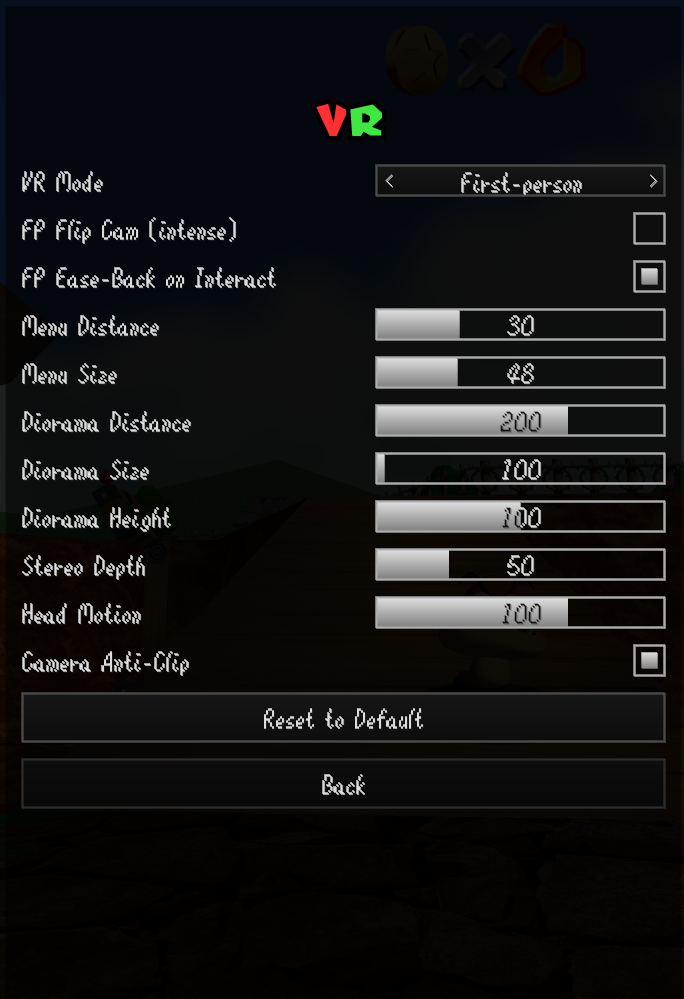
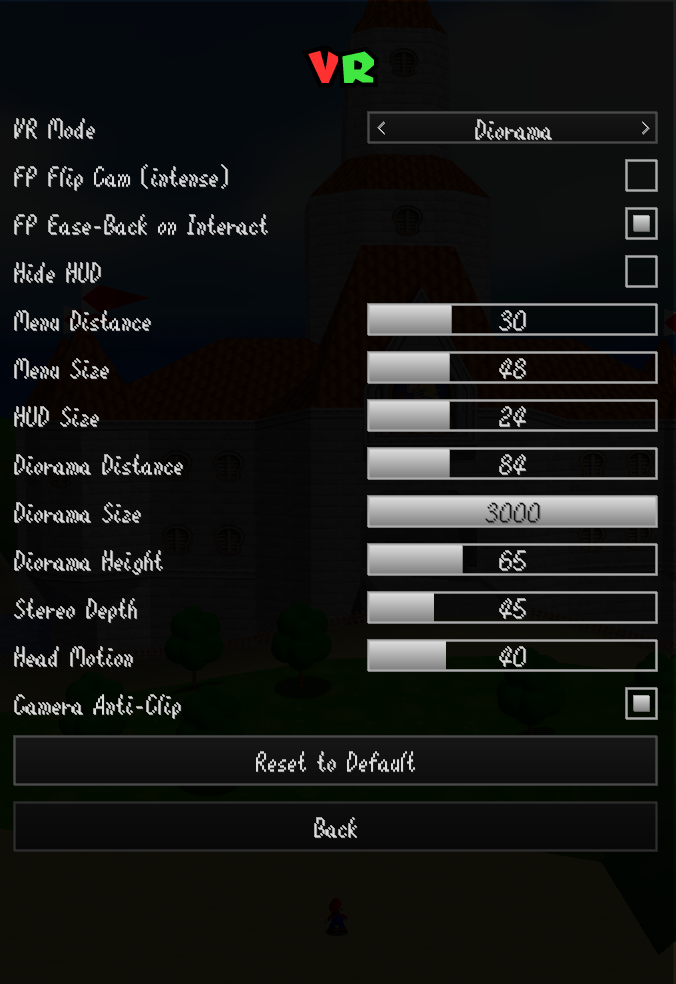
README: refresh the VR settings panel screenshot for the Diorama menu and update its caption to match the current options

diff --git a/README.md b/README.md
@@ -50,8 +50,8 @@ All the VR settings are in-game. Pause and open the VR button, right after Cheat
 
 ![VR button in the pause menu](VR_Menu_Preview/image1.png)
 
-It has view distance, size and height, stereo depth, head motion, first person, and camera anti-clip,
-plus a Reset to Default button:
+It has the VR mode, diorama distance, size and height, menu and HUD size, stereo depth, head motion,
+the first person toggles, Hide HUD, and camera anti-clip, plus a Reset to Default button:
 
 ![VR settings panel](VR_Menu_Preview/image2.png)
 